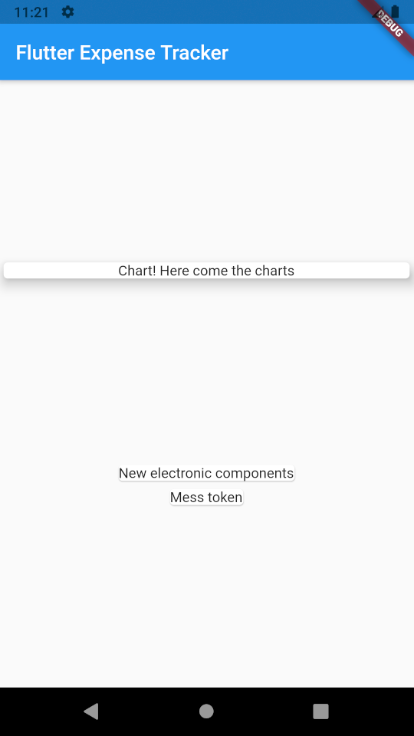
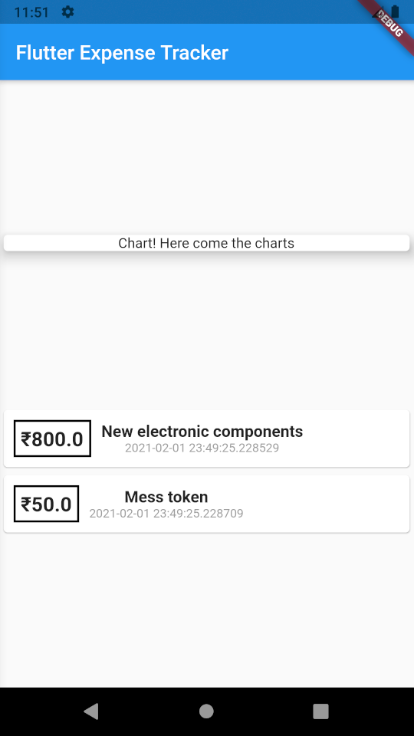
Added Text styling, margin and border

diff --git a/lib/main.dart b/lib/main.dart
@@ -48,13 +48,44 @@ class MyHomePage extends StatelessWidget {
           Column(
             children: transactions
                 .map((tx) => Card(
-                      child: Text(tx.title),
+                      child: Row(
+                        children: [
+                          Container(
+                            child: Text(
+                              '₹' + tx.amount.toString(),
+                              style: TextStyle(
+                                fontWeight: FontWeight.bold,
+                                fontSize: 20,
+                              ),
+                            ),
+                            margin: EdgeInsets.symmetric(
+                                vertical: 10, horizontal: 10),
+                            decoration: BoxDecoration(
+                                border:
+                                    Border.all(color: Colors.black, width: 2)),
+                            padding: EdgeInsets.all(5),
+                          ),
+                          Column(
+                            children: [
+                              Text(
+                                tx.title,
+                                style: TextStyle(
+                                    fontWeight: FontWeight.bold, fontSize: 16),
+                              ),
+                              Text(
+                                tx.date.toString(),
+                                style:
+                                    TextStyle(fontSize: 12, color: Colors.grey),
+                              )
+                            ],
+                          )
+                        ],
+                      ),
                     ))
                 .toList(),
           )
         ],
         mainAxisAlignment: MainAxisAlignment.spaceEvenly,
-        crossAxisAlignment: CrossAxisAlignment.stretch,
       ),
     );
   }
